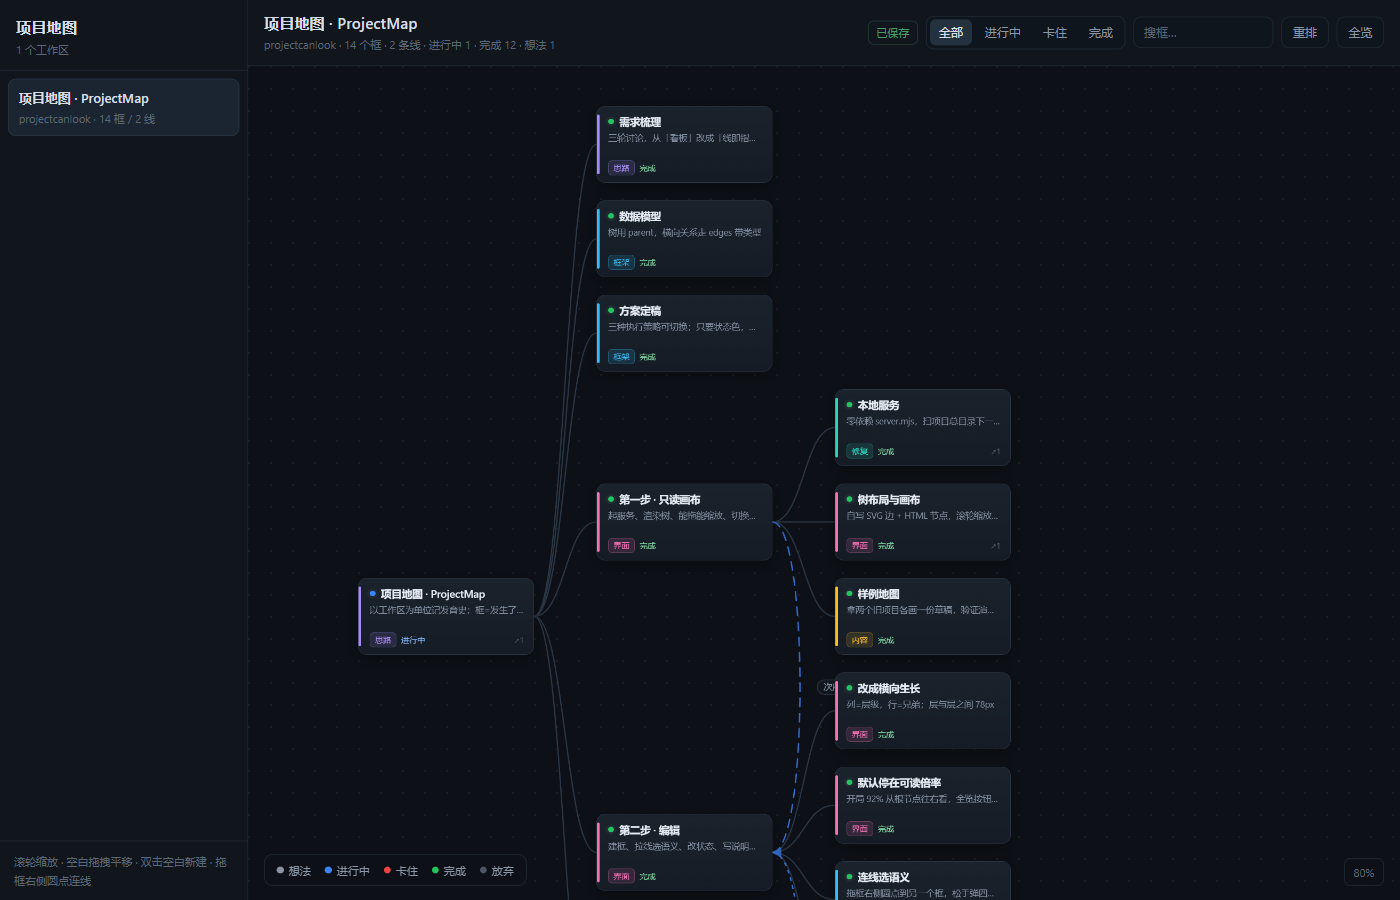
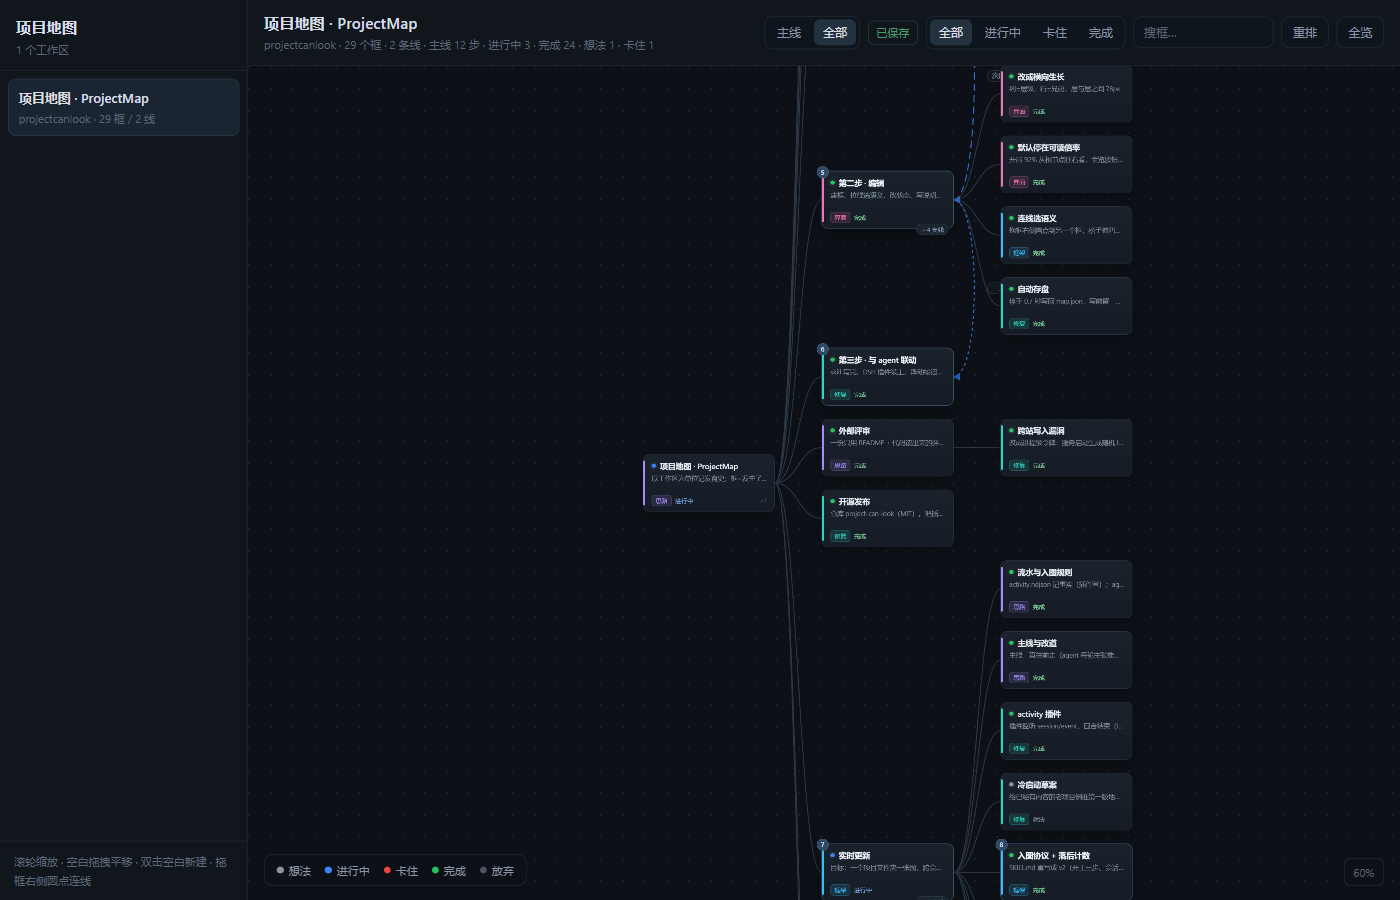
主线视图 + 冷启动草案；仓库只放这一个项目
- 主线视图：默认只看主线，从上往下一列，带序号和支线角标；「全部」保留树
- 顶栏允许换行，标题不再被挤扁
- 冷启动草案（别的项目）不进仓库：drafts/ 已 gitignore
- README：首图换主线、加全部视图、补第 4 条设计选择、加安全一节
- 截图用临时实例拍，工作区列表里不会出现别的项目
- 删掉两张没人引用的旧截图

diff --git a/web/app.js b/web/app.js
@@ -54,6 +54,7 @@ const S = {
   saving: false,
   pendingSave: false,
   saveTimer: null,
+  viewMode: 'spine', // 'spine' 只看主线 / 'all' 全部
 };
 
 const $ = (id) => document.getElementById(id);
@@ -116,6 +117,20 @@ function kindOf(n) { return KIND[n.kind] || KIND.other; }
 /* ---------------- 布局：从左往右 ---------------- */
 
 function computeLayout(map) {
+  // 主线视图：主线是一条序列，不走树布局，从上往下一列排开
+  const spineList = Array.isArray(map.mainline) ? map.mainline : [];
+  if (S.viewMode === 'spine' && spineList.length) {
+    const ids = new Set(map.nodes.map((n) => n.id));
+    const pos = new Map();
+    let i = 0;
+    for (const id of spineList) {
+      if (!ids.has(id)) continue;
+      pos.set(id, { x: 0, y: i * (NODE_H + 46) });
+      i += 1;
+    }
+    return pos;
+  }
+
   const mapById = new Map(map.nodes.map((n) => [n.id, n]));
   const kids = new Map();
   const roots = [];
@@ -184,8 +199,16 @@ function render() {
   S.pos = computeLayout(map);
   const mapById = new Map(map.nodes.map((n) => [n.id, n]));
 
+  // 主线视图：只画主线上的框；mainline 为空就退回全部
+  const spineList = Array.isArray(map.mainline) ? map.mainline : [];
+  const spine = new Set(spineList);
+  const spineIdx = new Map(spineList.map((id, i) => [id, i + 1]));
+  const onlySpine = S.viewMode === 'spine' && spine.size > 0;
+  const visible = (id) => !onlySpine || spine.has(id);
+
   let maxX = 0, maxY = 0;
-  for (const p of S.pos.values()) {
+  for (const [id, p] of S.pos) {
+    if (!visible(id)) continue;
     maxX = Math.max(maxX, p.x + NODE_W);
     maxY = Math.max(maxY, p.y + NODE_H);
   }
@@ -207,6 +230,7 @@ function render() {
   // 树干：父 → 子，左出右进
   for (const n of map.nodes) {
     if (!n.parent || !mapById.has(n.parent)) continue;
+    if (!visible(n.id) || !visible(n.parent)) continue;
     const a = S.pos.get(n.parent), b = S.pos.get(n.id);
     if (!a || !b) continue;
     const x1 = a.x + NODE_W, y1 = a.y + NODE_H / 2;
@@ -218,8 +242,27 @@ function render() {
     }));
   }
 
+  // 主线视图：把主线连成一条向下的链
+  if (onlySpine) {
+    for (let i = 0; i < spineList.length - 1; i += 1) {
+      const a = S.pos.get(spineList[i]);
+      const b = S.pos.get(spineList[i + 1]);
+      if (!a || !b) continue;
+      const x1 = a.x + NODE_W / 2, y1 = a.y + NODE_H;
+      const x2 = b.x + NODE_W / 2, y2 = b.y;
+      svg.appendChild(svgEl('path', {
+        class: 'spine-edge',
+        d: `M${x1},${y1} L${x2},${y2}`,
+        'marker-end': 'url(#arrow-flow)',
+      }));
+    }
+  }
+
   // 关系线
   for (const e of map.edges || []) {
+    if (!visible(e.from) || !visible(e.to)) continue;
+    // 主线视图里，"次序"线跟那条链重复了，不画
+    if (onlySpine && e.type === 'flow') continue;
     const a = S.pos.get(e.from), b = S.pos.get(e.to);
     if (!a || !b) continue;
     const type = EDGE[e.type] ? e.type : 'ref';
@@ -272,14 +315,41 @@ function render() {
   // 节点
   nodesLayer.textContent = '';
   for (const n of map.nodes) {
+    if (!visible(n.id)) continue;
     const p = S.pos.get(n.id);
     if (!p) continue;
-    nodesLayer.appendChild(buildNodeEl(n, p));
+    const el = buildNodeEl(n, p);
+    decorateNodeEl(el, n, spine, spineIdx);
+    nodesLayer.appendChild(el);
   }
 
   applyDim();
   updateMeta();
   applyLod();
+}
+
+/** 主线序号、支线角标。buildNodeEl 之后统一加，patchNode 也走这里 */
+function decorateNodeEl(el, n, spine, spineIdx) {
+  if (!spine || !spine.has(n.id)) return;
+  el.classList.add('on-spine');
+
+  const idx = document.createElement('span');
+  idx.className = 'spine-idx';
+  idx.textContent = spineIdx.get(n.id);
+  el.appendChild(idx);
+
+  const branches = kidsOf(n.id).filter((k) => !spine.has(k.id)).length;
+  if (branches > 0) {
+    const b = document.createElement('span');
+    b.className = 'branch-count';
+    b.textContent = `＋${branches} 支线`;
+    b.title = '切到「全部」看这些支线';
+    b.addEventListener('click', (e) => {
+      e.stopPropagation();
+      setViewMode('all');
+    });
+    el.appendChild(b);
+  }
 }
 
 function buildNodeEl(n, p) {
@@ -342,6 +412,8 @@ function patchNode(id) {
   const p = S.pos.get(id);
   const fresh = buildNodeEl(n, p || { x: 0, y: 0 });
   fresh.style.transform = el.style.transform;
+  const spineList = Array.isArray(S.map?.mainline) ? S.map.mainline : [];
+  decorateNodeEl(fresh, n, new Set(spineList), new Map(spineList.map((x, i) => [x, i + 1])));
   el.replaceWith(fresh);
   applyDim();
   updateMeta();
@@ -353,11 +425,23 @@ function updateMeta() {
   const counts = {};
   for (const n of map.nodes) counts[n.status] = (counts[n.status] || 0) + 1;
   const parts = [`${map.nodes.length} 个框`, `${(map.edges || []).length} 条线`];
+  const spineLen = Array.isArray(map.mainline) ? map.mainline.length : 0;
+  if (spineLen) parts.push(`主线 ${spineLen} 步`);
   for (const [k, v] of Object.entries(counts)) {
     if (STATUS[k]) parts.push(`${STATUS[k].label} ${v}`);
   }
   $('wsTitle').textContent = map.title || S.ws;
   $('wsMeta').textContent = `${S.ws}  ·  ${parts.join('  ·  ')}`;
+}
+
+/** 主线视图和「全部」的切换 */
+function setViewMode(mode) {
+  S.viewMode = mode === 'all' ? 'all' : 'spine';
+  for (const c of $('viewChips').children) {
+    c.classList.toggle('active', c.dataset.view === S.viewMode);
+  }
+  render();
+  fitAll();
 }
 
 function applyDim() {
@@ -1073,7 +1157,9 @@ async function loadWorkspace(ws) {
     $('empty').hidden = true;
     renderRail();
     render();
-    focusReadable();
+    // 主线模式下先看全局（主线就那几步）；全部模式停在能读字的倍率
+    if (S.viewMode === 'spine' && Array.isArray(map.mainline) && map.mainline.length) fitAll();
+    else focusReadable();
     refreshPending();
   } catch (err) {
     console.error(err);
@@ -1141,6 +1227,12 @@ $('relayout').addEventListener('click', () => {
 
 $('wsSelect').addEventListener('change', (e) => {
   if (e.target.value && e.target.value !== S.ws) loadWorkspace(e.target.value);
+});
+
+$('viewChips').addEventListener('click', (e) => {
+  const btn = e.target.closest('.chip');
+  if (!btn) return;
+  setViewMode(btn.dataset.view);
 });
 
 window.addEventListener('resize', () => { if (S.map) { render(); } });

diff --git a/web/app.css b/web/app.css
@@ -84,18 +84,22 @@ html, body {
 
 .topbar {
   display: flex; align-items: center; justify-content: space-between;
+  flex-wrap: wrap; row-gap: 8px;
   gap: 12px;
   padding: 12px 16px;
   border-bottom: 1px solid var(--line);
   background: var(--bg-2);
   z-index: 5;
 }
-.tb-left { min-width: 0; }
+.tb-left { min-width: 0; flex: 1 1 220px; }
 .tb-left h1 {
   margin: 0; font-size: 15px; font-weight: 640; letter-spacing: .2px;
   white-space: nowrap; overflow: hidden; text-overflow: ellipsis;
 }
-.tb-meta { margin-top: 2px; font-size: 11px; color: var(--text-faint); }
+.tb-meta {
+  margin-top: 2px; font-size: 11px; color: var(--text-faint);
+  white-space: nowrap; overflow: hidden; text-overflow: ellipsis;
+}
 .tb-right { display: flex; align-items: center; gap: 8px; flex: 0 0 auto; }
 
 .pending-pill {
@@ -138,6 +142,11 @@ html, body {
 .btn.small { padding: 5px 10px; font-size: 11px; }
 .btn.danger:hover { color: #ff8080; border-color: #5a2b2b; }
 
+/* 主线 / 全部 */
+.view-chips .chip[data-view="spine"].active {
+  background: #24313f; color: #cfe0f5;
+}
+
 /* 窄屏（塞进侧边栏时）用的工作区下拉 */
 .ws-select {
   display: none;
@@ -165,6 +174,7 @@ html, body {
 .nodes { position: absolute; top: 0; left: 0; }
 
 .tree-edge { fill: none; stroke: #2b3746; stroke-width: 1.6; }
+.spine-edge { fill: none; stroke: #3f5871; stroke-width: 2; }
 .rel-edge { fill: none; stroke-width: 1.8; opacity: .95; }
 .rel-edge.merge { stroke: #c084fc; stroke-width: 2.4; }
 .rel-edge.ref { stroke: #64748b; stroke-dasharray: 7 6; }
@@ -250,6 +260,29 @@ html, body {
 .k-ui      { --accent: var(--k-ui); }
 .k-fix     { --accent: var(--k-fix); }
 .k-other   { --accent: var(--k-other); }
+
+/* 主线：粗一点、亮一点，带序号 */
+.node.on-spine {
+  border-color: #3f5871;
+  box-shadow: 0 0 0 1px rgba(77,127,181,.25), 0 8px 22px rgba(0,0,0,.45);
+}
+.node.on-spine .node-title { color: #f2f7fd; }
+
+.spine-idx {
+  position: absolute; left: -9px; top: -9px;
+  min-width: 20px; height: 20px; padding: 0 5px;
+  display: flex; align-items: center; justify-content: center;
+  border-radius: 10px; background: #2f4a66; border: 1px solid #47698b;
+  color: #dbe9f8; font-size: 11px; font-weight: 600; line-height: 1;
+}
+
+.branch-count {
+  position: absolute; right: 8px; bottom: -11px;
+  padding: 1px 7px; border-radius: 9px;
+  background: #1b2530; border: 1px solid #2f3d4d;
+  color: #8ea2b8; font-size: 10px; cursor: pointer; white-space: nowrap;
+}
+.branch-count:hover { color: #cfe0f5; border-color: #47698b; }
 
 /* 画布角标 */
 .legend {

diff --git a/lib/activity.js b/lib/activity.js
@@ -42,12 +42,24 @@ const PREAMBLE = /^(Time sampled|Current runtime context|Current DSH|Current Dee
 function cleanAsk(text) {
   const raw = String(text || '');
   if (!raw) return '';
+
   const stripped = raw
     .replace(/<system-reminder>[\s\S]*?<\/system-reminder>/gi, ' ')
     .replace(/<[a-z]+-[a-z]+>[\s\S]*?<\/[a-z]+-[a-z]+>/gi, ' ');
+
+  // 按段落切，丢掉注入段
   const paras = stripped.split(/\n{2,}/).map((p) => p.trim()).filter(Boolean);
   const kept = paras.filter((p) => !PREAMBLE.test(p));
-  const out = (kept.length ? kept.join(' ') : stripped).replace(/\s+/g, ' ').trim();
+  let out = (kept.length ? kept.join(' ') : stripped).replace(/\s+/g, ' ').trim();
+
+  // 常见情况：注入块和用户的话挤在同一段里，段落级过滤救不了。
+  // 这时退一步取最后一行——harness 的上下文永远是前置的，用户的话在后面。
+  if (PREAMBLE.test(out)) {
+    const lines = stripped.split('\n').map((l) => l.trim()).filter(Boolean);
+    const tail = [...lines].reverse().find((l) => !PREAMBLE.test(l)) || '';
+    out = tail.replace(/\s+/g, ' ').trim();
+  }
+
   return out.length > 3 ? out : '';
 }
 

diff --git a/web/index.html b/web/index.html
@@ -29,6 +29,10 @@
       <div class="tb-right">
         <select id="wsSelect" class="ws-select" title="切换工作区"></select>
         <span class="pending-pill" id="pendingPill" hidden></span>
+        <div class="chips view-chips" id="viewChips">
+          <button class="chip active" data-view="spine" title="只看主线，支线折起来">主线</button>
+          <button class="chip" data-view="all" title="全部框都显示">全部</button>
+        </div>
         <div class="save-pill" id="savePill" data-state="saved">已保存</div>
         <div class="chips" id="chips">
           <button class="chip active" data-filter="all">全部</button>

diff --git a/README.md b/README.md
@@ -2,7 +2,11 @@
 
 把每个项目的发育史画成一棵能拖、能改的树。**框是已经发生的事，线是接下来要什么。**
 
-![预览](docs/preview.png)
+![主线视图](docs/spine.png)
+
+默认打开是**主线**：从上往下一列，带序号。支线折成「＋N 支线」角标，点一下切到「全部」
+
+![全部视图](docs/preview.png)
 
 一个零依赖的本地小工具：一个 Node 脚本 + 一个手写的 SVG 画布，不装 npm 包、不用数据库，
 数据就是你项目文件夹里的一个 JSON。
@@ -34,6 +38,10 @@
 
 **3. 只有状态色，没有进度条。**
 `想法 / 进行中 / 卡住 / 完成 / 放弃`。百分比是假的，颜色骗不了人。
+
+**4. 主线一直往前走。**
+每个项目有一条 `mainline`（一串有序的节点 id）。默认只显示它，支线折叠成「＋N 支线」。
+边写边改主意的项目，靠这条线才不会在几十个框里迷路；改道时标 `pivot` + 一句为什么，图上留个断口。
 
 ## 快速开始
 
